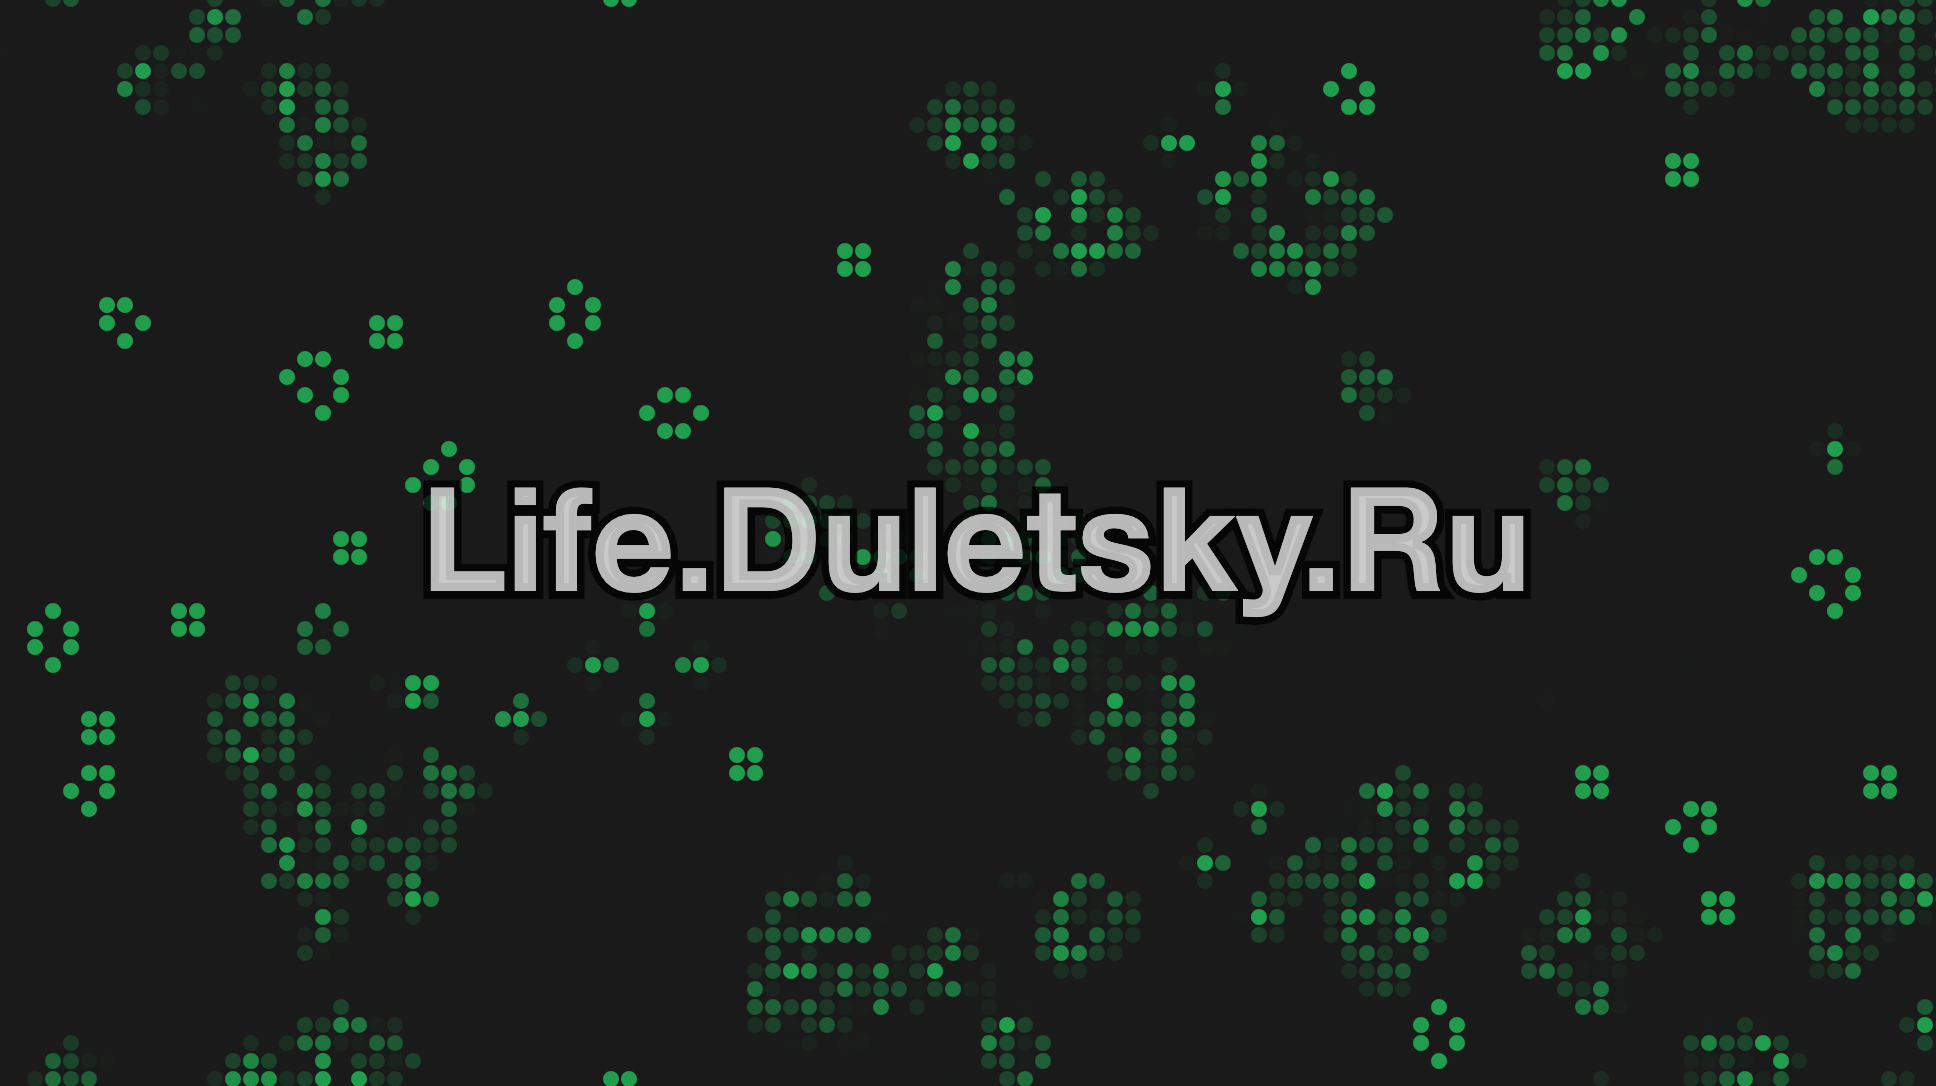
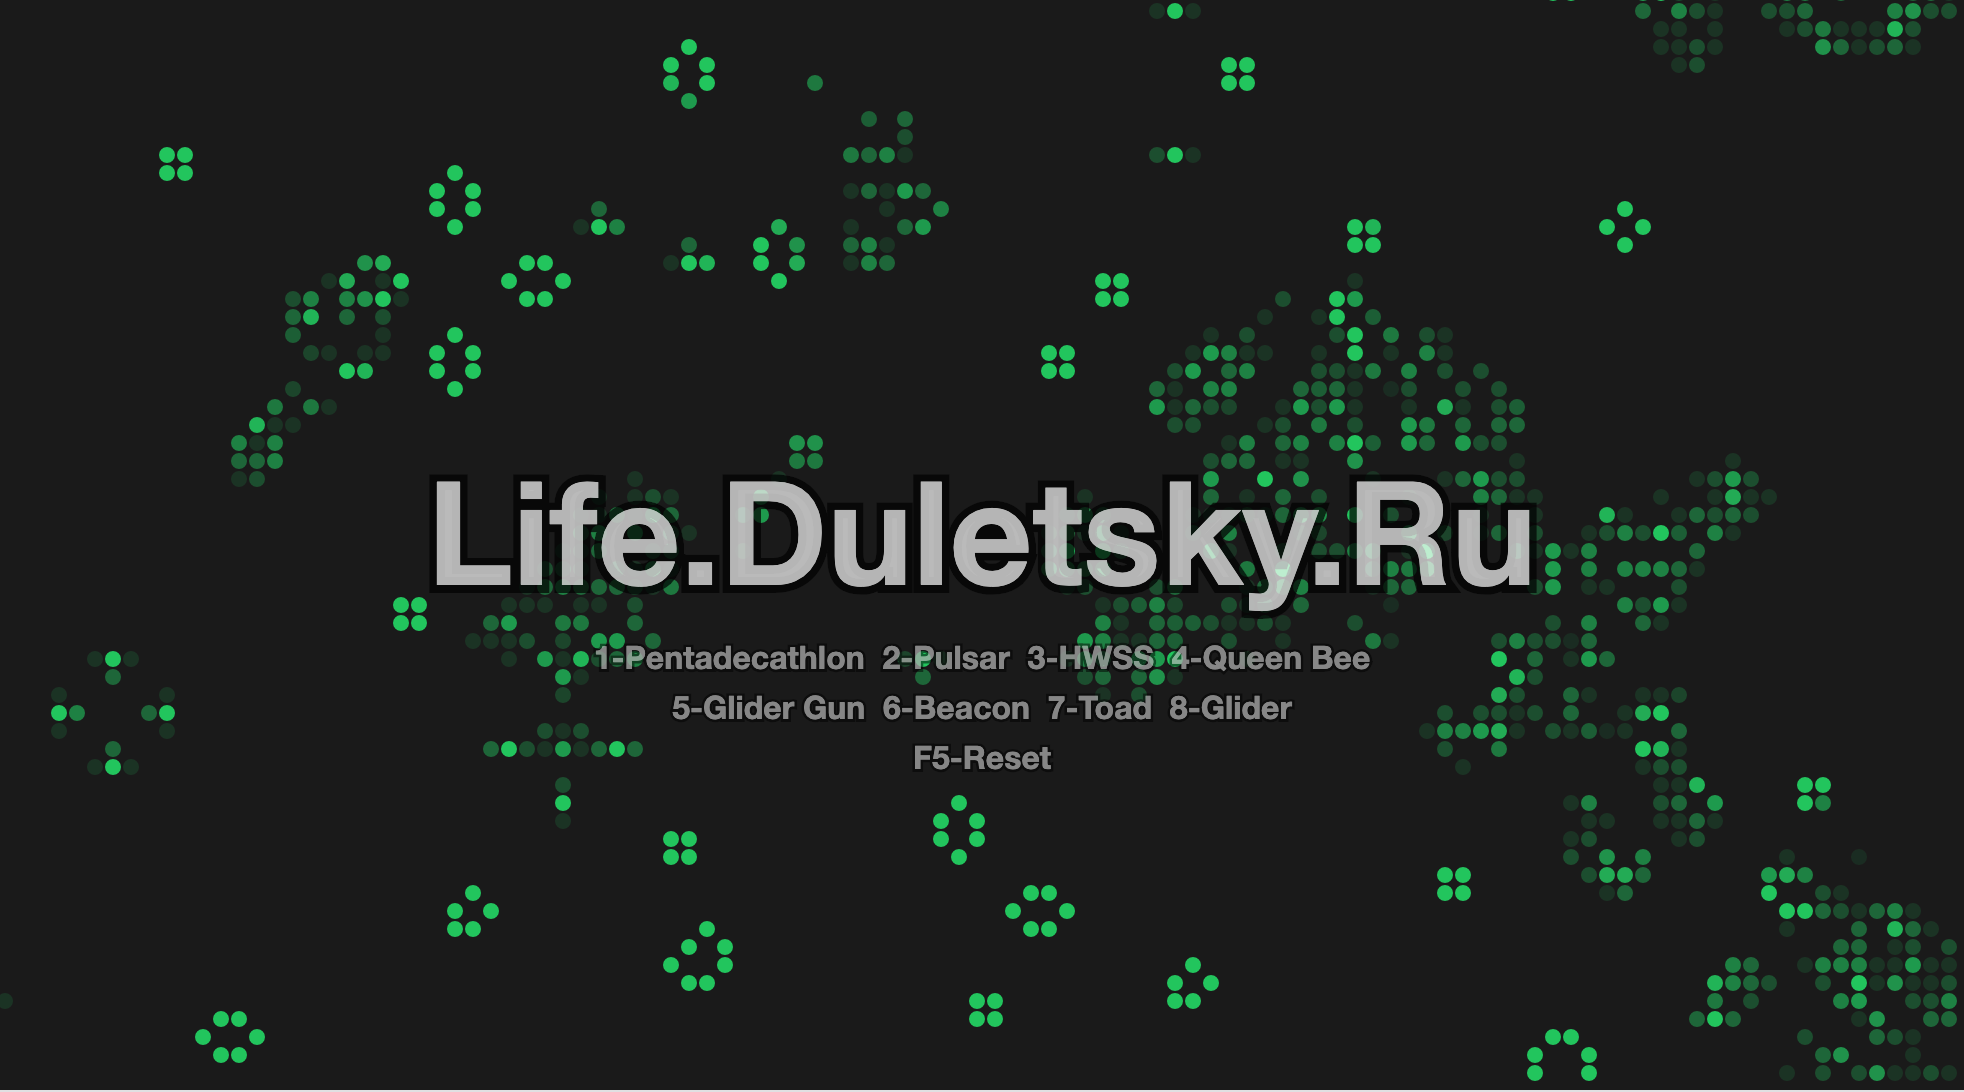
Добавлены горячие клавиши для создания фигур в игре "Жизнь" Конвея, отображение подсказок на экране и автоматический запуск игры после перезагрузки. Реализован алгоритм поиска лучшего пустого места для размещения фигур. Обновлен README и changelog для отражения новых функций.

diff --git a/index.html b/index.html
@@ -457,6 +457,35 @@
                 // Белый текст поверх черной обводки
                 this.ctx.fillStyle = 'white';
                 this.ctx.fillText('Life.Duletsky.Ru', centerX, centerY);
+                
+                // Подсказки по клавишам под основным текстом
+                this.ctx.globalAlpha = 0.5;
+                this.ctx.font = 'bold 16px "Helvetica Neue", Arial, sans-serif';
+                
+                const shortcuts = [
+                    '1-Pentadecathlon  2-Pulsar  3-HWSS  4-Queen Bee',
+                    '5-Glider Gun  6-Beacon  7-Toad  8-Glider',
+                    'F5-Reset'
+                ];
+                
+                // Черная обводка для подсказок
+                this.ctx.strokeStyle = 'black';
+                this.ctx.lineWidth = 3;
+                
+                shortcuts.forEach((line, index) => {
+                    const y = centerY + 60 + (index * 25);
+                    this.ctx.strokeText(line, centerX, y);
+                });
+                
+                // Белый текст подсказок
+                this.ctx.fillStyle = 'white';
+                shortcuts.forEach((line, index) => {
+                    const y = centerY + 60 + (index * 25);
+                    this.ctx.fillText(line, centerX, y);
+                });
+                
+                // Возвращаем нормальную прозрачность
+                this.ctx.globalAlpha = 1.0;
             }
             
             animate(timestamp) {
@@ -499,6 +528,11 @@
                 this.stop();
                 this.initializeGrid();
                 this.render();
+                
+                // Автоматически запускаем игру после reset
+                setTimeout(() => {
+                    this.start();
+                }, 500);
             }
             
             bindEvents() {
@@ -508,6 +542,50 @@
                     if (event.key === 'F5' || (event.ctrlKey && event.key === 'r')) {
                         event.preventDefault();
                         this.reset();
+                        return;
+                    }
+                    
+                    // Создание фигур по клавишам
+                    const bestSpot = this.findBestEmptySpot();
+                    
+                    if (!bestSpot) {
+                        console.log('❌ Не найдено пустых мест для размещения фигуры');
+                        return;
+                    }
+                    
+                    switch(event.key) {
+                        case '1':
+                            this.placePattern(this.getPentadecathlon(), bestSpot.x - 6, bestSpot.y - 6);
+                            console.log(`🎯 Создан Pentadecathlon в лучшем месте (${bestSpot.x}, ${bestSpot.y})`);
+                            break;
+                        case '2':
+                            this.placePattern(this.getPulsar(), bestSpot.x - 7, bestSpot.y - 7);
+                            console.log(`🎯 Создан Pulsar в лучшем месте (${bestSpot.x}, ${bestSpot.y})`);
+                            break;
+                        case '3':
+                            this.placePattern(this.getHWSS(), bestSpot.x - 4, bestSpot.y - 3);
+                            console.log(`🎯 Создан HWSS в лучшем месте (${bestSpot.x}, ${bestSpot.y})`);
+                            break;
+                        case '4':
+                            this.placePattern(this.getQueenBeeShuttle(), bestSpot.x - 12, bestSpot.y - 5);
+                            console.log(`🎯 Создан Queen Bee Shuttle в лучшем месте (${bestSpot.x}, ${bestSpot.y})`);
+                            break;
+                        case '5':
+                            this.placePattern(this.getGosperGliderGun(), bestSpot.x - 20, bestSpot.y - 5);
+                            console.log(`🎯 Создана Gosper Glider Gun в лучшем месте (${bestSpot.x}, ${bestSpot.y})`);
+                            break;
+                        case '6':
+                            this.placePattern(this.getBeacon(), bestSpot.x - 2, bestSpot.y - 2);
+                            console.log(`🎯 Создан Beacon в лучшем месте (${bestSpot.x}, ${bestSpot.y})`);
+                            break;
+                        case '7':
+                            this.placePattern(this.getToad(), bestSpot.x - 2, bestSpot.y - 1);
+                            console.log(`🎯 Создан Toad в лучшем месте (${bestSpot.x}, ${bestSpot.y})`);
+                            break;
+                        case '8':
+                            this.placePattern(this.getGlider(), bestSpot.x - 1, bestSpot.y - 1);
+                            console.log(`🎯 Создан Glider в лучшем месте (${bestSpot.x}, ${bestSpot.y})`);
+                            break;
                     }
                 });
                 
@@ -608,6 +686,78 @@
                 }
                 
                 return emptySpots;
+            }
+            
+            // Поиск самого большого пустого места
+            findBestEmptySpot() {
+                let bestSpot = null;
+                let maxEmptyArea = 0;
+                const checkRadius = 15; // Радиус проверки вокруг точки
+                const stepSize = 5; // Шаг поиска для оптимизации
+                
+                console.log(`Ищем лучшее пустое место... Размер поля: ${this.cols}x${this.rows}`);
+                
+                for (let y = checkRadius; y < this.rows - checkRadius; y += stepSize) {
+                    for (let x = checkRadius; x < this.cols - checkRadius; x += stepSize) {
+                        let emptyCount = 0;
+                        let totalCount = 0;
+                        
+                        // Считаем пустые клетки в области
+                        for (let dy = -checkRadius; dy <= checkRadius; dy++) {
+                            for (let dx = -checkRadius; dx <= checkRadius; dx++) {
+                                const nx = x + dx;
+                                const ny = y + dy;
+                                if (nx >= 0 && nx < this.cols && ny >= 0 && ny < this.rows) {
+                                    totalCount++;
+                                    if (!this.grid[ny][nx]) {
+                                        emptyCount++;
+                                    }
+                                }
+                            }
+                        }
+                        
+                        // Процент пустых клеток в области
+                        const emptyRatio = emptyCount / totalCount;
+                        
+                        // Ищем область с максимальным количеством пустых клеток (минимум 70% пустых)
+                        if (emptyRatio > 0.7 && emptyCount > maxEmptyArea) {
+                            maxEmptyArea = emptyCount;
+                            bestSpot = {x, y};
+                        }
+                    }
+                }
+                
+                console.log(`Найдено лучшее место: ${bestSpot ? `(${bestSpot.x}, ${bestSpot.y})` : 'нет'}, пустых клеток: ${maxEmptyArea}`);
+                
+                // Если не нашли идеальное место, попробуем с меньшими требованиями
+                if (!bestSpot) {
+                    console.log('Поиск с пониженными требованиями...');
+                    for (let y = 10; y < this.rows - 10; y += 10) {
+                        for (let x = 10; x < this.cols - 10; x += 10) {
+                            let emptyCount = 0;
+                            
+                            // Проверяем меньшую область 10x10
+                            for (let dy = -5; dy <= 5; dy++) {
+                                for (let dx = -5; dx <= 5; dx++) {
+                                    const nx = x + dx;
+                                    const ny = y + dy;
+                                    if (nx >= 0 && nx < this.cols && ny >= 0 && ny < this.rows) {
+                                        if (!this.grid[ny][nx]) {
+                                            emptyCount++;
+                                        }
+                                    }
+                                }
+                            }
+                            
+                            if (emptyCount > 50 && emptyCount > maxEmptyArea) {
+                                maxEmptyArea = emptyCount;
+                                bestSpot = {x, y};
+                            }
+                        }
+                    }
+                }
+                
+                return bestSpot;
             }
         }
         

diff --git a/docs/changelog.md b/docs/changelog.md
@@ -1,5 +1,43 @@
 # Changelog
 
+## [2025-01-24] - Ручное создание фигур по клавишам
+
+### Добавлено
+- **Горячие клавиши для фигур**: создание любой фигуры нажатием клавиши 1-8
+- **Размещение по центру**: все фигуры появляются в центре экрана
+- **Подсказки на экране**: отображение всех доступных клавиш под названием домена
+- **Консольное логирование**: сообщения о создании фигур вручную
+
+### Клавиши управления
+- **1** - Pentadecathlon (осциллятор период 15)
+- **2** - Pulsar (осциллятор период 3)
+- **3** - HWSS (космический корабль)
+- **4** - Queen Bee Shuttle (шаттл период 30)
+- **5** - Gosper Glider Gun (пушка глайдеров)
+- **6** - Beacon (осциллятор период 2)
+- **7** - Toad (осциллятор период 2)
+- **8** - Glider (мигрирующий паттерн)
+- **F5** - Reset (перезапуск игры)
+
+### Визуальные подсказки
+- Все клавиши отображены на экране под основным текстом
+- Белый текст с черной обводкой для читаемости
+- Компактное расположение в 3 строки
+- Полупрозрачность 80% для ненавязчивости
+
+### Позиционирование
+- **Умное размещение**: фигуры появляются в самом большом пустом месте на поле
+- **Алгоритм поиска**: сканирование областей 30×30 клеток с шагом 5
+- **Требования к месту**: минимум 70% пустых клеток в области
+- **Резервный поиск**: если нет идеального места, поиск областей 10×10 с 50+ пустыми клетками
+- **Безопасное размещение**: проверка границ поля и корректировка смещений
+
+### Удобство использования
+- ✅ **Мгновенное создание**: нажал клавишу = появилась фигура
+- ✅ **Видимые подсказки**: не нужно запоминать клавиши
+- ✅ **Центральное размещение**: фигуры всегда на виду
+- ✅ **Обратная связь**: консольные сообщения о создании
+
 ## [2025-01-24] - Автогенерация случайных фигур
 
 ### Добавлено
@@ -339,3 +377,20 @@
 - Создавала техническую сложность без добавочной ценности
 
 Финальное решение: один HTML файл с полной функциональностью игры.
+
+## [2025-01-24] - Исправление автозапуска после F5
+
+### Исправлено
+- **Проблема остановки по F5**: игра теперь автоматически возобновляется после перезагрузки
+- **Консистентность поведения**: reset() работает аналогично первоначальной загрузке
+- **Удобство использования**: F5 перезапускает игру, но не останавливает её
+
+### Техническое
+- Добавлен `setTimeout(() => this.start(), 500)` в метод `reset()`
+- Задержка 500мс обеспечивает правильную инициализацию перед запуском
+- Поведение теперь идентично автозапуску при загрузке страницы
+
+### Пользователь
+- ✅ F5 = полный перезапуск с новым засевом + автоматическое продолжение
+- ✅ Никакой необходимости ручного запуска после reset
+- ✅ Предсказуемое поведение интерфейса

diff --git a/README.md b/README.md
@@ -15,7 +15,7 @@
 
 ## 🚀 Запуск
 
-Просто откройте файл `index.html` в любом современном браузере:
+Просто откройте файл `index.html` в браузере:
 
 ```bash
 # В macOS
